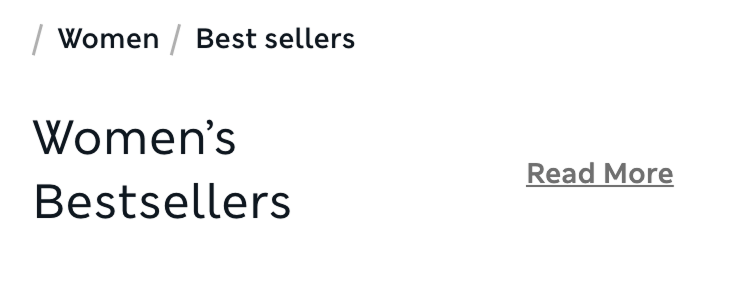
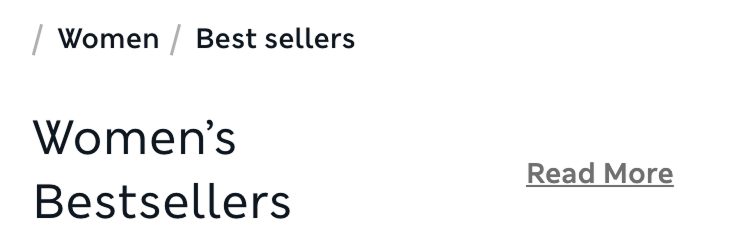
Add files via upload

diff --git a/sticky-PLP-stacked.html b/sticky-PLP-stacked.html
@@ -1,0 +1,249 @@
+<!DOCTYPE html>
+<html lang="en">
+<head>
+<meta charset="UTF-8">
+<meta name="viewport" content="width=device-width, initial-scale=1.0">
+<title>Sticky Navigation and Filters</title>
+<style>
+* { box-sizing: border-box; }
+html, body { margin: 0; padding: 0; }
+body { overflow-x: hidden; }
+img { display: block; width: 100%; height: auto; }
+
+.nav-wrapper,
+.nav,
+.filters-wrapper,
+.filters { width: 100%; }
+
+/* The original elements always keep their place in the page. */
+.nav-wrapper,
+.filters-wrapper { position: relative; }
+
+/* Hide only the original filters once the fixed copy takes over. */
+.filters-wrapper.is-replaced { visibility: hidden; }
+
+/* A separate fixed stack avoids changing the original filters to position:fixed. */
+.fixed-stack {
+    background: #fff;
+    position: fixed;
+    top: 0;
+    left: 0;
+    width: 100%;
+    z-index: 1000;
+    visibility: hidden;
+    pointer-events: none;
+}
+
+.fixed-stack.is-active {
+    visibility: visible;
+    pointer-events: auto;
+}
+
+.fixed-nav {
+    width: 100%;
+    max-height: 0;
+    overflow: hidden;
+    transform: translateY(-100%);
+}
+
+/* Animation is enabled only after the fixed filters are already visible. */
+.fixed-stack.can-animate .fixed-nav {
+    transition: max-height 300ms ease, transform 300ms ease;
+}
+
+.fixed-stack.nav-visible .fixed-nav {
+    max-height: var(--nav-height, 0px);
+    transform: translateY(0);
+}
+
+.fixed-filters { width: 100%; }
+
+/* Once the original filters meet the fixed copy, hand back immediately. */
+.fixed-stack.filters-released .fixed-filters {
+    display: none;
+}
+
+@media (prefers-reduced-motion: reduce) {
+    .fixed-nav { transition: none !important; }
+}
+</style>
+</head>
+<body>
+<div class="page">
+    <img src="stripe.png" alt="">
+
+    <div class="nav-wrapper" id="navWrapper">
+        <div class="nav">
+            <img src="nav.png" alt="">
+        </div>
+    </div>
+
+    <img src="top.png" alt="">
+
+    <div class="filters-wrapper" id="filtersWrapper">
+        <div class="filters">
+            <img src="filters.png" alt="">
+        </div>
+    </div>
+
+    <img src="list.png" alt="">
+</div>
+
+<!-- Independent fixed copies. The originals never animate or move off screen. -->
+<div class="fixed-stack" id="fixedStack" aria-hidden="true">
+    <div class="fixed-nav">
+        <img src="nav.png" alt="">
+    </div>
+    <div class="fixed-filters">
+        <img src="filters.png" alt="">
+    </div>
+</div>
+
+<script>
+const navWrapper = document.getElementById('navWrapper');
+const filtersWrapper = document.getElementById('filtersWrapper');
+const fixedStack = document.getElementById('fixedStack');
+
+let lastScrollY = window.scrollY;
+let filtersOriginalTop = 0;
+let fixedMode = false;
+let navIsVisible = false;
+let fixedFiltersActive = false;
+let lastDirection = null;
+
+function measure() {
+    document.documentElement.style.setProperty(
+        '--nav-height',
+        `${navWrapper.offsetHeight}px`
+    );
+
+    if (!fixedMode) {
+        filtersOriginalTop =
+            filtersWrapper.getBoundingClientRect().top + window.scrollY;
+    }
+}
+
+function activateFixedMode() {
+    if (fixedMode) return;
+
+    fixedMode = true;
+    navIsVisible = false;
+    fixedFiltersActive = true;
+    lastDirection = 'down';
+
+    /* The in-flow filters disappear immediately. */
+    filtersWrapper.classList.add('is-replaced');
+
+    /* The already-positioned fixed copy appears immediately at top: 0. */
+    fixedStack.classList.remove('can-animate', 'nav-visible', 'filters-released');
+    fixedStack.classList.add('is-active');
+    fixedStack.setAttribute('aria-hidden', 'false');
+
+    /* Force the non-animated initial state to paint first. */
+    void fixedStack.offsetHeight;
+
+    requestAnimationFrame(() => {
+        if (fixedMode) fixedStack.classList.add('can-animate');
+    });
+}
+
+function deactivateFixedMode() {
+    if (!fixedMode) return;
+
+    fixedMode = false;
+    navIsVisible = false;
+    fixedFiltersActive = false;
+    lastDirection = null;
+
+    fixedStack.classList.remove('is-active', 'can-animate', 'nav-visible', 'filters-released');
+    fixedStack.setAttribute('aria-hidden', 'true');
+    filtersWrapper.classList.remove('is-replaced');
+    measure();
+}
+
+function showNav() {
+    if (!fixedMode || navIsVisible) return;
+    navIsVisible = true;
+    fixedStack.classList.add('nav-visible');
+}
+
+function hideNav() {
+    if (!fixedMode || !navIsVisible) return;
+    navIsVisible = false;
+    fixedStack.classList.remove('nav-visible');
+}
+
+
+function releaseFiltersToPage() {
+    if (!fixedMode || !fixedFiltersActive) return;
+
+    fixedFiltersActive = false;
+
+    /* Both copies currently occupy the same viewport position, so the swap is invisible. */
+    filtersWrapper.classList.remove('is-replaced');
+    fixedStack.classList.add('filters-released');
+}
+
+function restoreFixedFilters() {
+    if (!fixedMode || fixedFiltersActive) return;
+
+    fixedFiltersActive = true;
+    filtersWrapper.classList.add('is-replaced');
+    fixedStack.classList.remove('filters-released');
+}
+
+function syncFiltersHandoff(direction) {
+    if (!fixedMode) return;
+
+    const originalTop = filtersWrapper.getBoundingClientRect().top;
+    const fixedTop = navIsVisible ? navWrapper.offsetHeight : 0;
+
+    /* Scrolling up: release as soon as the original filters reach the fixed row. */
+    if (direction === 'up' && fixedFiltersActive && originalTop >= fixedTop) {
+        releaseFiltersToPage();
+    }
+
+    /* Scrolling down again: restore the fixed copy as the original reaches the row. */
+    if (direction === 'down' && !fixedFiltersActive && originalTop <= fixedTop) {
+        restoreFixedFilters();
+    }
+}
+
+function handleScroll() {
+    const currentScrollY = window.scrollY;
+    const delta = currentScrollY - lastScrollY;
+
+    if (Math.abs(delta) < 1) return;
+
+    const direction = delta > 0 ? 'down' : 'up';
+
+    if (!fixedMode && currentScrollY >= filtersOriginalTop) {
+        activateFixedMode();
+    }
+
+    if (fixedMode) {
+        if (navWrapper.getBoundingClientRect().top >= 0) {
+            deactivateFixedMode();
+            lastScrollY = currentScrollY;
+            return;
+        }
+
+        if (direction !== lastDirection) {
+            if (direction === 'up') showNav();
+            else hideNav();
+            lastDirection = direction;
+        }
+
+        syncFiltersHandoff(direction);
+    }
+
+    lastScrollY = currentScrollY;
+}
+
+window.addEventListener('scroll', handleScroll, { passive: true });
+window.addEventListener('resize', measure);
+window.addEventListener('load', measure);
+measure();
+</script>
+</body>
+</html>
